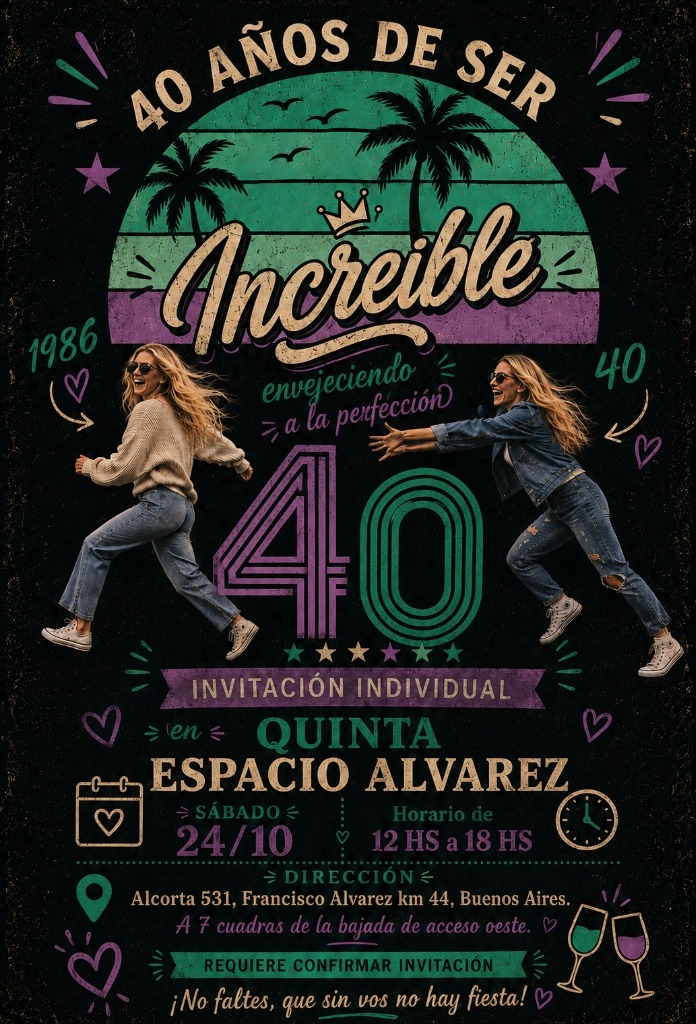
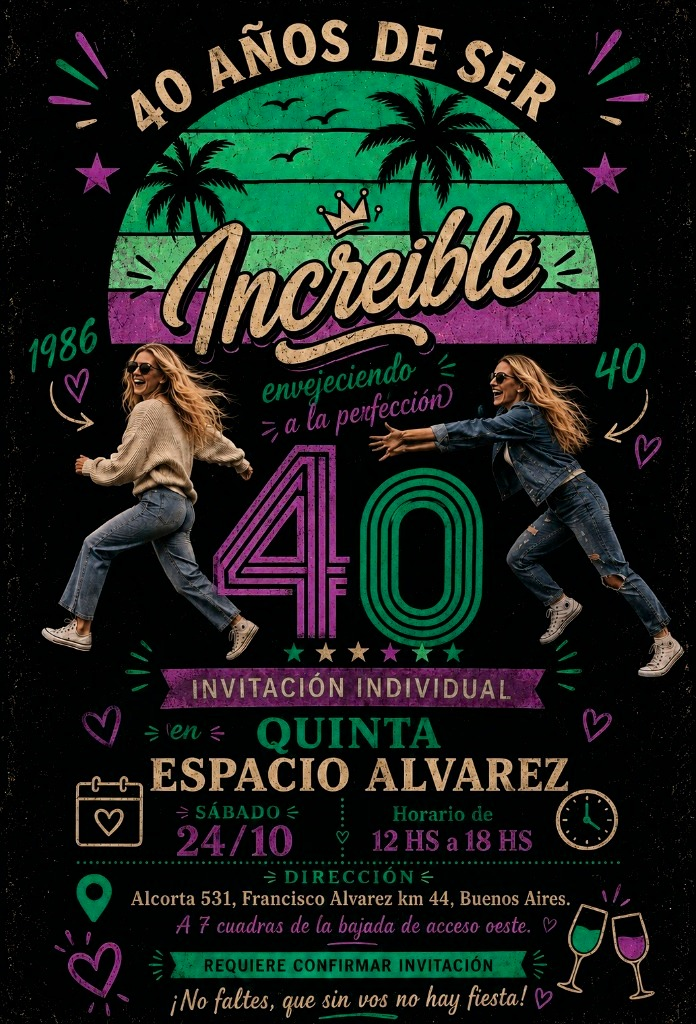
feat: realce de imagen, iluminacion neon color-dodge, animaciones y confetti

diff --git a/index.html b/index.html
@@ -48,8 +48,10 @@
       justify-content: space-between;
     }
 
-    .invitation-wrapper {
+    .invitation-wrapper,
+    .invitacion-wrapper {
       position: relative;
+      overflow: hidden;
       width: 100%;
       max-width: 480px;
       flex: 1;
@@ -57,16 +59,184 @@
       margin: 0 auto;
     }
 
-    .invitation-img {
+    .invitation-img,
+    .imagen-fondo {
       display: block;
       width: 100%;
       height: 100%;
       object-fit: fill;
+      filter: saturate(1.15) contrast(1.05);
       user-select: none;
       -webkit-user-drag: none;
     }
 
-    /* Hotspots 100% invisibles sobre la imagen (mantiene el click sin dibujar nada arriba) */
+    /* =========================================================================
+       A. REALCE CSS E ILUMINACIÓN NEÓN (mix-blend-mode: color-dodge)
+       ========================================================================= */
+    .glow-sol {
+      position: absolute;
+      pointer-events: none;
+      top: 6%;
+      left: 15%;
+      width: 70%;
+      height: 30%;
+      background: radial-gradient(circle, rgba(0, 255, 170, 0.35) 0%, rgba(180, 50, 255, 0.25) 50%, transparent 70%);
+      mix-blend-mode: color-dodge;
+      animation: pulsoSol 3.5s infinite alternate ease-in-out;
+    }
+
+    @keyframes pulsoSol {
+      0% { transform: scale(0.95); opacity: 0.4; }
+      100% { transform: scale(1.05); opacity: 0.95; }
+    }
+
+    .glow-40 {
+      position: absolute;
+      pointer-events: none;
+      top: 42%;
+      left: 25%;
+      width: 50%;
+      height: 22%;
+      background: linear-gradient(90deg, rgba(190, 60, 255, 0.4) 0%, rgba(0, 255, 160, 0.4) 100%);
+      filter: blur(25px);
+      mix-blend-mode: color-dodge;
+      animation: pulso40 2.5s infinite alternate-reverse ease-in-out;
+    }
+
+    @keyframes pulso40 {
+      0% { transform: scale(0.94); opacity: 0.45; }
+      100% { transform: scale(1.06); opacity: 0.95; }
+    }
+
+    .destello-esquina-izq,
+    .destello-esquina-der {
+      position: absolute;
+      pointer-events: none;
+      top: 2.5%;
+      width: 12%;
+      height: 10%;
+      background: conic-gradient(from 0deg, #00ffaa, #b833ff, #f5d7a1);
+      filter: blur(12px);
+      mix-blend-mode: color-dodge;
+      animation: cartelNeon 1.5s infinite steps(3);
+    }
+
+    .destello-esquina-izq { left: 6%; }
+    .destello-esquina-der { right: 5%; animation-delay: 0.5s; }
+
+    @keyframes cartelNeon {
+      0%, 100% { opacity: 0.25; transform: scale(0.95); }
+      50% { opacity: 0.9; transform: scale(1.05); }
+    }
+
+    /* =========================================================================
+       B. ANIMACIONES DE ELEMENTOS DEL DISEÑO
+       ========================================================================= */
+    .destello {
+      position: absolute;
+      pointer-events: none;
+      width: 12px;
+      height: 12px;
+      border-radius: 50%;
+      background: #fff;
+      box-shadow: 0 0 10px 3px #00ffaa, 0 0 20px 6px #b833ff;
+      transform: translate(-50%, -50%);
+      animation: brillarEstrella 2.2s infinite ease-in-out alternate;
+    }
+
+    .destello.estrella-izq { top: 16.5%; left: 13%; animation-delay: 0s; }
+    .destello.estrella-der { top: 16.5%; left: 86%; animation-delay: 0.8s; }
+    .destello.brindis { top: 87%; left: 87%; animation-delay: 1.5s; }
+
+    @keyframes brillarEstrella {
+      0% { transform: translate(-50%, -50%) scale(0.35); opacity: 0.25; }
+      100% { transform: translate(-50%, -50%) scale(1.15); opacity: 1; }
+    }
+
+    .anim-copas {
+      position: absolute;
+      pointer-events: none;
+      top: 86%;
+      left: 79%;
+      width: 15%;
+      height: 11%;
+    }
+
+    .anim-copas .burbuja {
+      position: absolute;
+      bottom: 35%;
+      width: 5px;
+      height: 5px;
+      border-radius: 50%;
+      opacity: 0;
+      animation: subirBurbuja 2.6s infinite ease-in;
+    }
+
+    .anim-copas .burbuja.b1 { left: 22%; background: #00ffaa; box-shadow: 0 0 6px #00ffaa; animation-delay: 0s; }
+    .anim-copas .burbuja.b2 { left: 34%; background: #00ffaa; box-shadow: 0 0 6px #00ffaa; animation-delay: 1.1s; }
+    .anim-copas .burbuja.b3 { left: 66%; background: #d455ff; box-shadow: 0 0 6px #d455ff; animation-delay: 0.5s; }
+    .anim-copas .burbuja.b4 { left: 78%; background: #d455ff; box-shadow: 0 0 6px #d455ff; animation-delay: 1.7s; }
+
+    @keyframes subirBurbuja {
+      0% { transform: translateY(0) scale(0.7); opacity: 0; }
+      35% { opacity: 0.9; }
+      100% { transform: translateY(-35px) scale(1.15); opacity: 0; }
+    }
+
+    .anim-copas .chin-chin {
+      position: absolute;
+      top: 5%;
+      left: 42%;
+      color: #f5d7a1;
+      font-size: 0.95rem;
+      text-shadow: 0 0 8px #f5d7a1, 0 0 14px #00ffaa;
+      animation: choqueCopas 2s infinite ease-in-out;
+    }
+
+    @keyframes choqueCopas {
+      0%, 100% { transform: scale(0.6) rotate(0deg); opacity: 0.3; }
+      50% { transform: scale(1.35) rotate(45deg); opacity: 1; }
+    }
+
+    .radar-pin {
+      position: absolute;
+      pointer-events: none;
+      top: 85.2%;
+      left: 10.8%;
+      width: 5.5%;
+      aspect-ratio: 1;
+      border: 2px solid #00ffaa;
+      border-radius: 50%;
+      animation: ondaRadar 2s infinite ease-out;
+    }
+
+    @keyframes ondaRadar {
+      0% { transform: scale(0.5); opacity: 1; }
+      100% { transform: scale(2.4); opacity: 0; }
+    }
+
+    .pulso-calendario {
+      position: absolute;
+      pointer-events: none;
+      top: 78.5%;
+      left: 13.5%;
+      width: 4.5%;
+      aspect-ratio: 1;
+      border-radius: 50%;
+      background: radial-gradient(circle, rgba(245, 215, 161, 0.7) 0%, transparent 70%);
+      mix-blend-mode: color-dodge;
+      animation: latidoCorazon 1.2s infinite ease-in-out;
+    }
+
+    @keyframes latidoCorazon {
+      0%, 100% { transform: scale(0.85); opacity: 0.45; }
+      30% { transform: scale(1.35); opacity: 1; }
+      60% { transform: scale(0.95); opacity: 0.65; }
+    }
+
+    /* =========================================================================
+       C. HOTSPOTS INTERACTIVOS Y EFECTO SHIMMER
+       ========================================================================= */
     .hotspot {
       position: absolute;
       cursor: pointer;
@@ -90,10 +260,30 @@
     }
 
     .hs-rsvp {
-      top: 92.2%;
-      left: 18%;
-      width: 64%;
-      height: 4.5%;
+      top: 92.3%;
+      left: 24%;
+      width: 52%;
+      height: 3.2%;
+      overflow: hidden;
+      border-radius: 4px;
+    }
+
+    .hs-rsvp::after {
+      content: "";
+      position: absolute;
+      top: 0;
+      left: -120%;
+      width: 65%;
+      height: 100%;
+      background: linear-gradient(90deg, transparent, rgba(255, 255, 255, 0.4), transparent);
+      transform: skewX(-25deg);
+      animation: shimmerSweep 3.5s infinite ease-in-out;
+      pointer-events: none;
+    }
+
+    @keyframes shimmerSweep {
+      0% { left: -120%; }
+      45%, 100% { left: 160%; }
     }
 
     /* Botonera pegada directamente debajo de la imagen (sin espacio vacío) */
@@ -430,17 +620,40 @@
 </head>
 <body>
 
-  <!-- Invitación con Hotspots 100% invisibles arriba de la imagen -->
-  <main class="invitation-wrapper">
-    <img src="invitacion.jpg" alt="Invitación 40 Años Nati" class="invitation-img" />
+  <!-- Invitación con Capas de Iluminación Neón y Hotspots -->
+  <main class="invitation-wrapper invitacion-wrapper">
+    <img src="invitacion.jpg" alt="Invitación 40 Años Nati" class="invitation-img imagen-fondo" />
 
+    <!-- A. Capas de iluminación neón (color-dodge) -->
+    <div class="glow-sol"></div>
+    <div class="glow-40"></div>
+    <div class="destello-esquina-izq"></div>
+    <div class="destello-esquina-der"></div>
+
+    <!-- B. Animaciones puntuales sobre el diseño -->
+    <div class="destello estrella-izq"></div>
+    <div class="destello estrella-der"></div>
+    <div class="destello brindis"></div>
+
+    <div class="anim-copas">
+      <span class="burbuja b1"></span>
+      <span class="burbuja b2"></span>
+      <span class="burbuja b3"></span>
+      <span class="burbuja b4"></span>
+      <span class="chin-chin">✦</span>
+    </div>
+
+    <div class="radar-pin"></div>
+    <div class="pulso-calendario"></div>
+
+    <!-- C. Hotspots interactivos -->
     <!-- Hotspot: Fecha y Hora -> Agendar -->
     <div class="hotspot hs-calendar" onclick="openModal('calendarModal')" title="Agendar fecha"></div>
 
     <!-- Hotspot: Dirección -> Mapa -->
     <div class="hotspot hs-map" onclick="openModal('mapModal')" title="Ver ubicación en el mapa"></div>
 
-    <!-- Hotspot: Confirmar Invitación -->
+    <!-- Hotspot: Confirmar Invitación (con barrido de luz shimmer) -->
     <div class="hotspot hs-rsvp" onclick="confirmarWhatsApp()" title="Confirmar asistencia"></div>
   </main>
 
@@ -935,6 +1148,19 @@
         xhr.send(file);
       });
     }
+
+    // D. Confetti inicial con la paleta del sitio
+    window.addEventListener("load", () => {
+      if (typeof confetti === "function") {
+        confetti({
+          particleCount: 50,
+          spread: 70,
+          origin: { y: 0.6 },
+          colors: ["#00e699", "#a64dff", "#f3d2a2"]
+        });
+      }
+    });
   </script>
+  <script src="https://cdn.jsdelivr.net/npm/canvas-confetti@1.9.3/dist/confetti.browser.min.js" defer></script>
 </body>
 </html>
